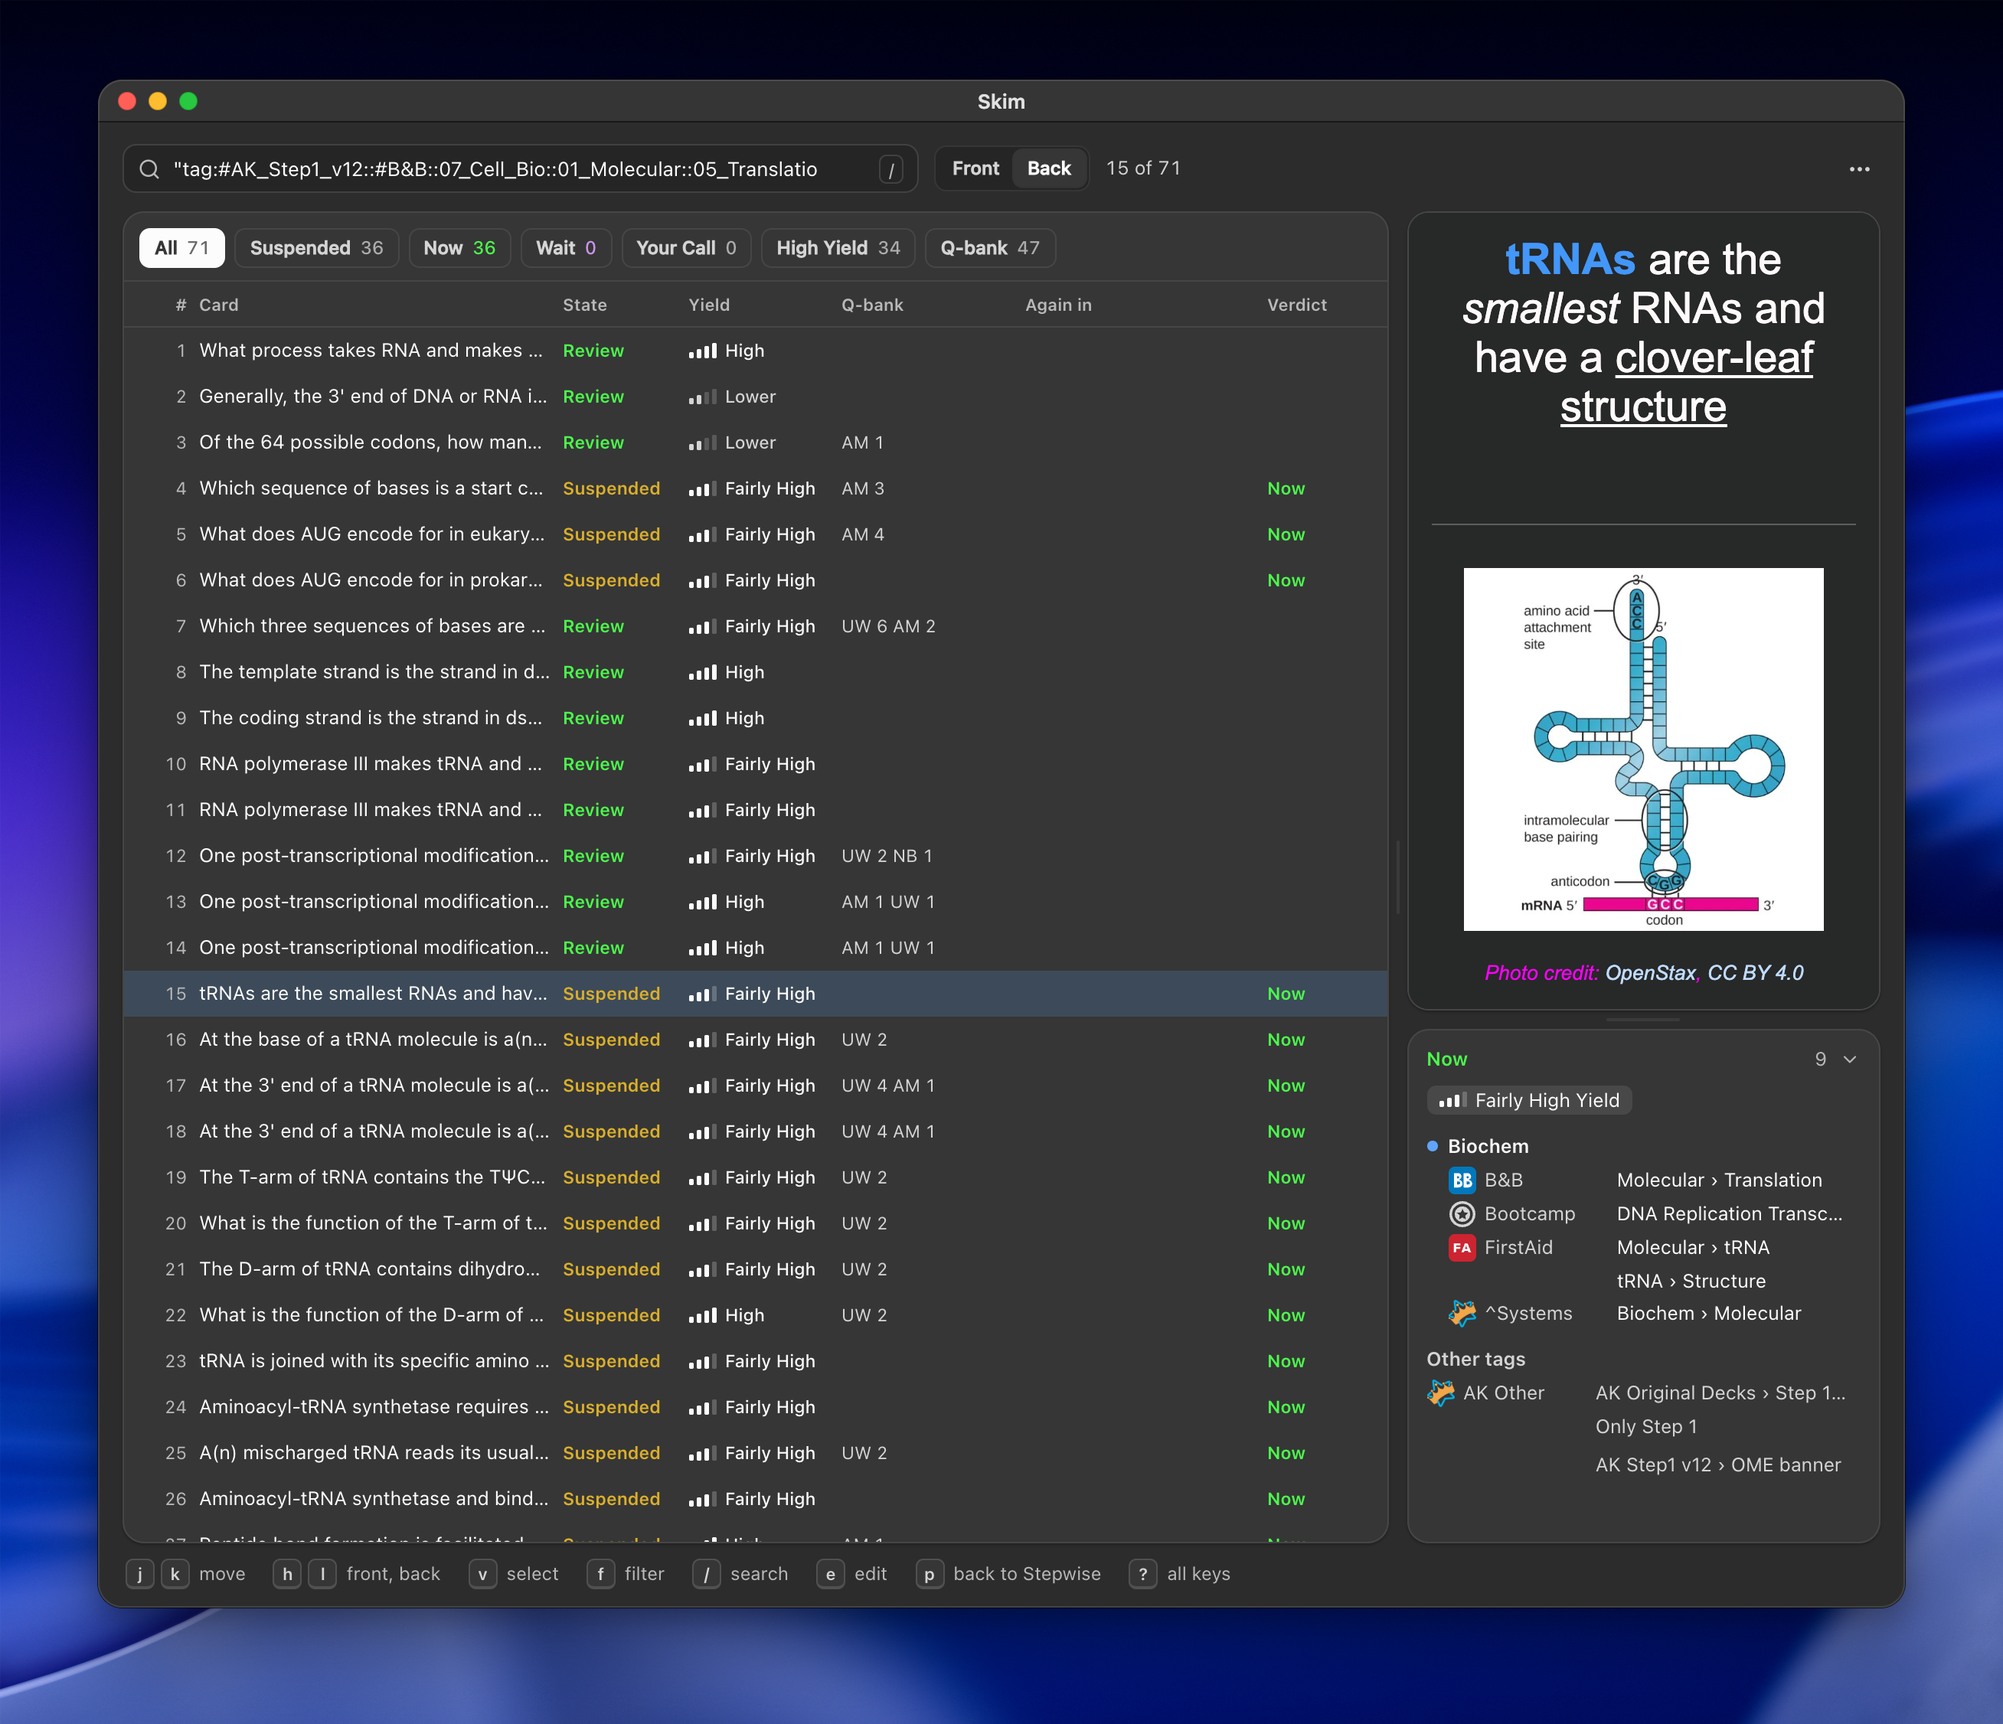
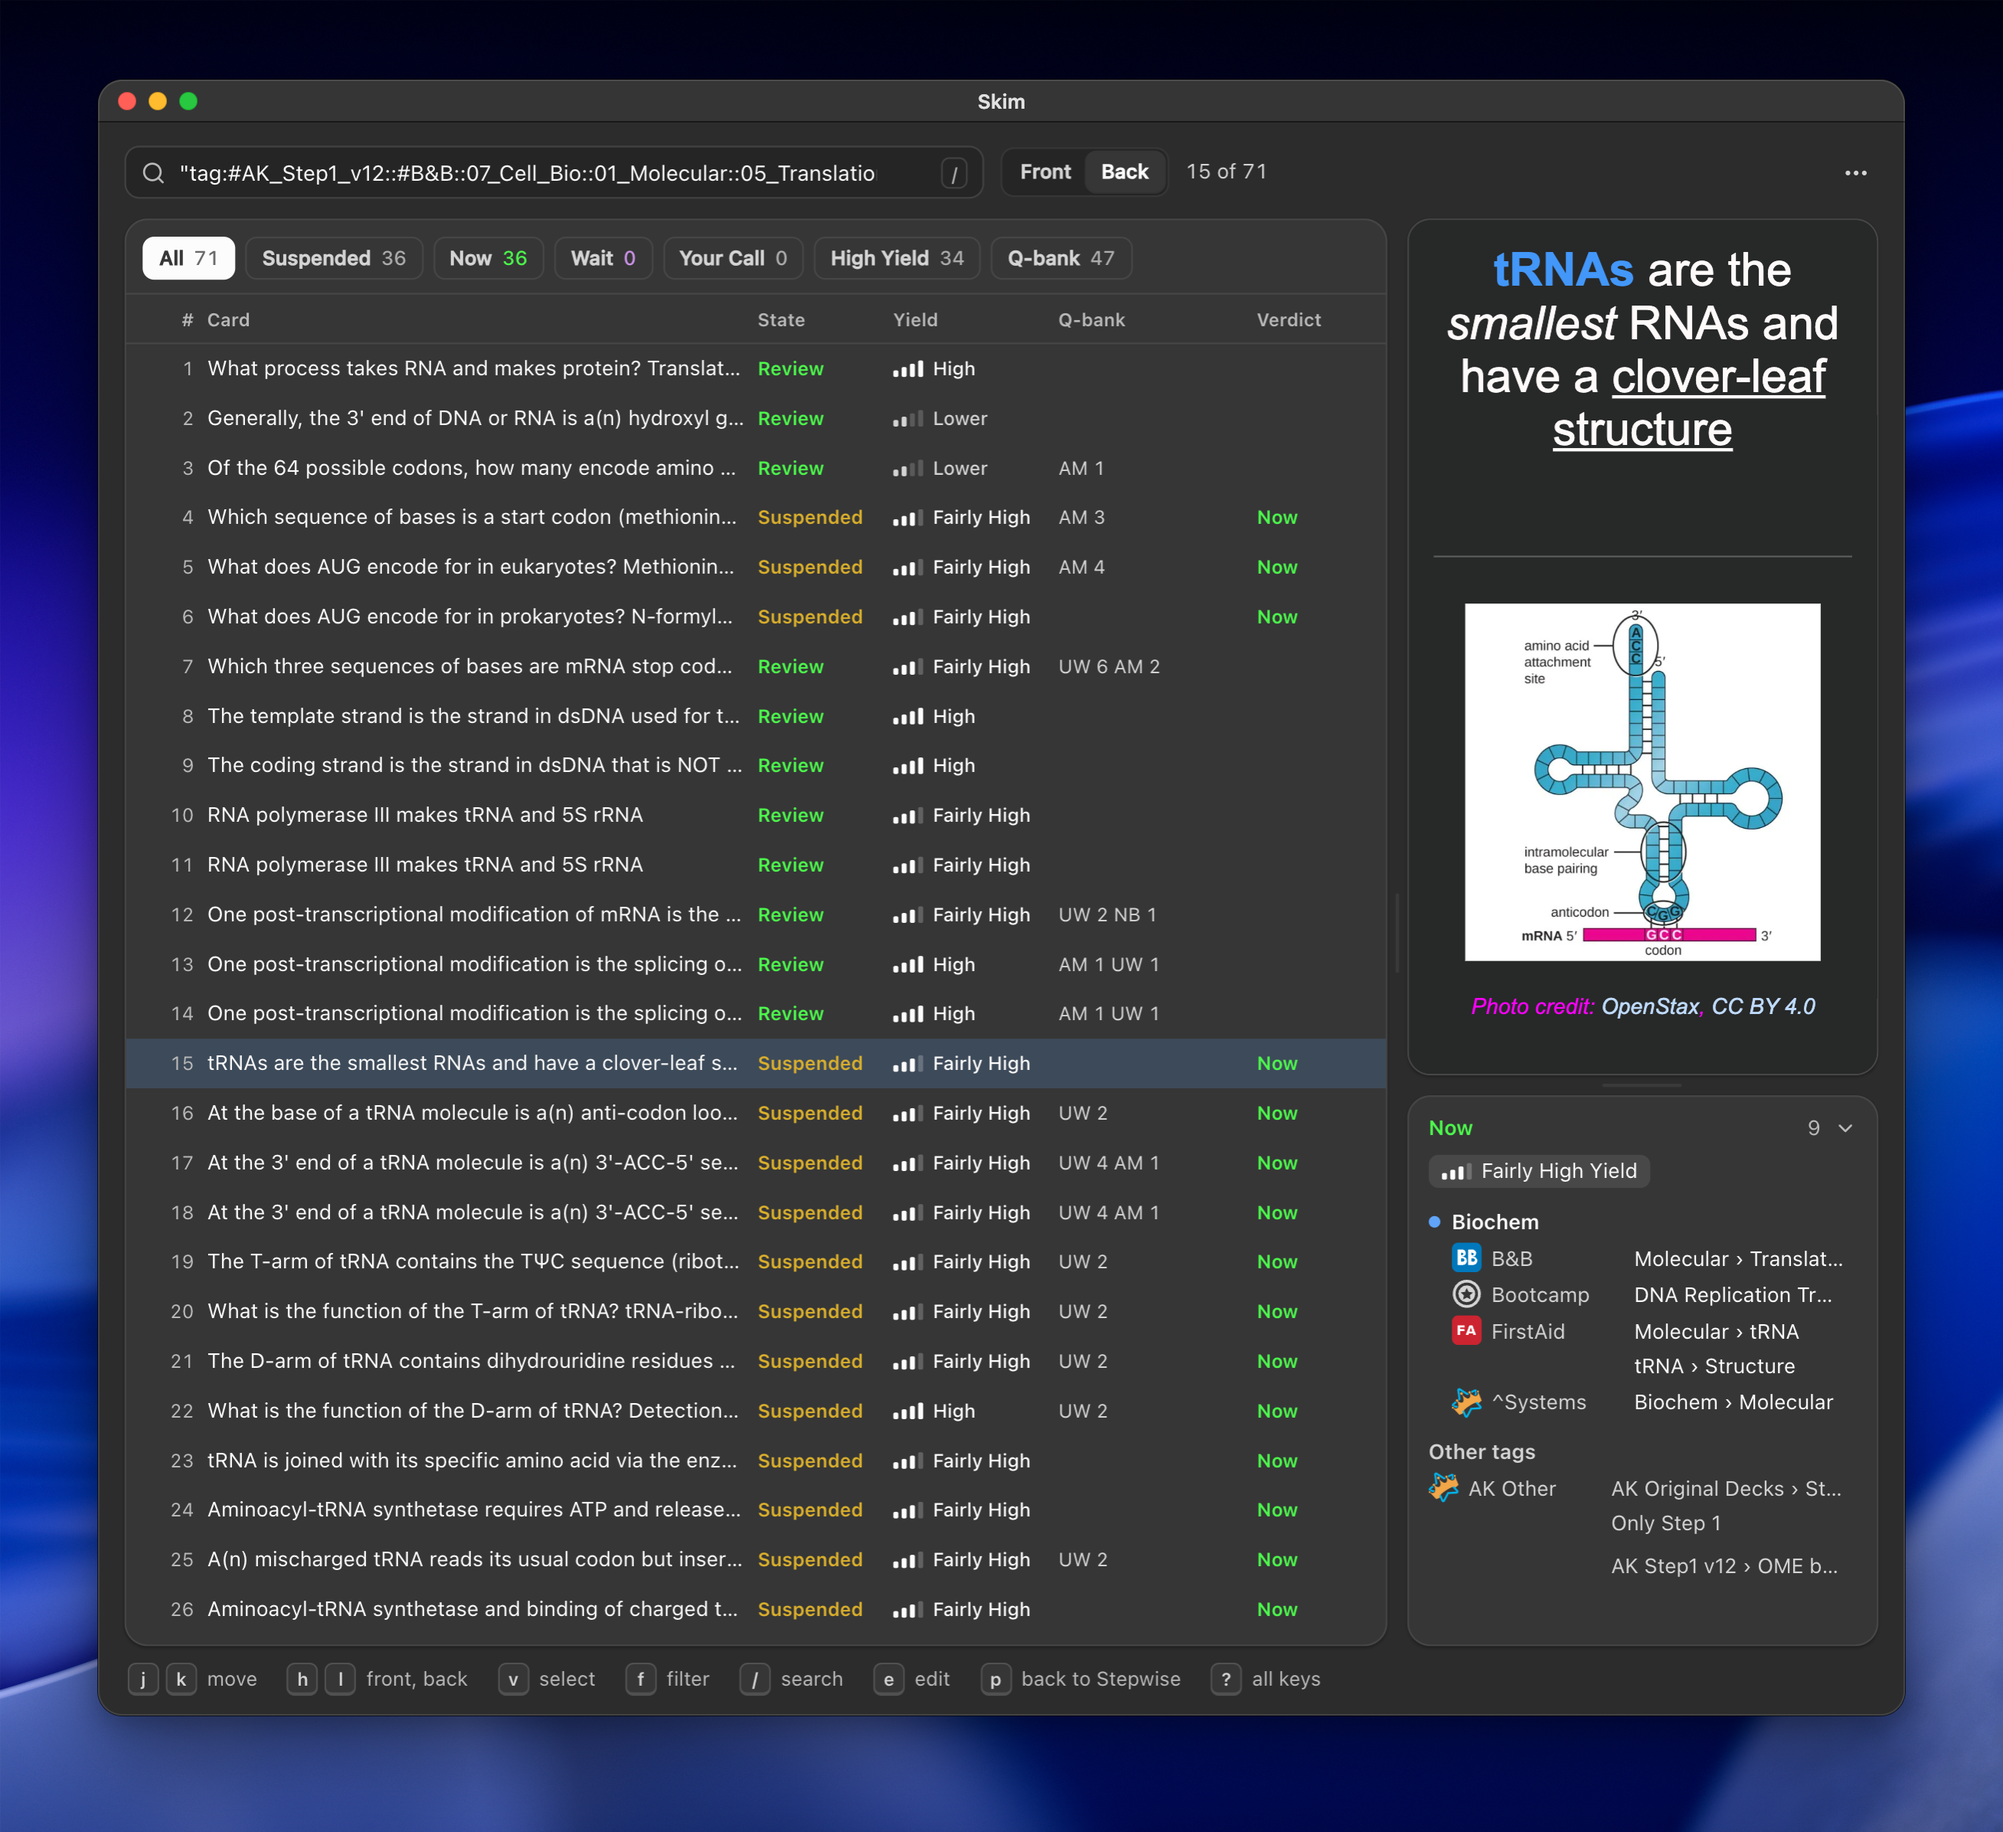
docs: draw the screenshot's window at 108%
The window draws at 108% (the kit's capture "zoom", as ⌘= does) in
1180x1040, so it reads better at the listing's width while the page
stays 1093px wide: under 1080px Skim hides the card. The table drops its
Deck and Again in columns at that width, as it's made to. The window is
taller so the diagram and its credit still show whole.

diff --git a/tools/screenshots.py b/tools/screenshots.py
@@ -9,7 +9,7 @@ unsuspend now (CARD, found by its text): "tRNAs are the smallest RNAs and
 have a clover-leaf structure", a real AnKing card (note 1467927195193, so
 anyone's copy of the deck has it) whose diagram is OpenStax's, CC BY 4.0,
 credited on the card. The window is taller than its default 1180x780, so
-the diagram and its credit show whole. The page comes from tools/devserver.py, run with Anki's own Python
+the diagram and its credit show whole, and draws at 108% (ZOOM). The page comes from tools/devserver.py, run with Anki's own Python
 (ANKI_PYTHON, or the launcher's) on a copy of a collection: the Default
 profile's unless --collection names another, with the media folder beside
 it. The collection itself is never touched. Verdicts follow Stepwise's
@@ -35,7 +35,12 @@ KIT = os.environ.get("ANKI_ADDON_KIT", os.path.join(os.path.dirname(ROOT), "anki
 sys.path.insert(0, os.path.join(KIT, "screenshots"))
 import shots  # noqa: E402
 
-SIZE = (1180, 970)  # the default width (src/window.py), taller so the card's diagram and its credit show whole
+# How big it draws in its window (the kit's zoom.py, Cmd+=), so it reads at
+# the listing's width. The page is then 1180 / 1.08 = 1093px wide: any
+# narrower (under 1080px, styles.css) and Skim hides the card to give the
+# table the window.
+ZOOM = 1.08
+SIZE = (1180, 1040)  # the default width (src/window.py), taller so the card's diagram and its credit show whole
 TOPIC = "#AK_Step1_v12::#B&B::07_Cell_Bio::01_Molecular::05_Translation"
 CARD = "tRNAs are the smallest RNAs"  # its row's text
 STEPWISE = os.path.join(os.path.dirname(ROOT), "anki-stepwise", "src", "meta.json")
@@ -77,7 +82,7 @@ def main() -> None:
         try:
             shots.wait_for(f"http://127.0.0.1:{port}/", timeout=90)
             s.capture([{"url": f"http://127.0.0.1:{port}/?theme=dark", "width": SIZE[0], "height": SIZE[1],
-                        "setup": SETUP % {"card": json.dumps(CARD)}, "wait": 300, "out": "skim.png",
+                        "setup": SETUP % {"card": json.dumps(CARD)}, "zoom": ZOOM, "wait": 300, "out": "skim.png",
                         "result": s.path("skim.json")}])
         finally:
             dev.terminate()

diff --git a/docs/ankiweb-listing.md b/docs/ankiweb-listing.md
@@ -42,8 +42,10 @@ before each release.
 shared screenshot tools: Skim's window on the B&B Translation topic from the
 Default profile's collection (a copy), with Stepwise's pinned resources, at
 the tRNA card (a clover-leaf diagram, OpenStax, CC BY 4.0, credited on the
-card), which it says to unsuspend now. The window is 1180x970, taller than
-its default, so the diagram and its credit show whole. Chosen on 2026-11-17
+card), which it says to unsuspend now. The window is 1180x1040, taller than
+its default, so the diagram and its credit show whole, and it draws at 108%
+(as Cmd+= draws it), so it reads at the listing's width. Any bigger and the
+page would be under 1080px wide, where Skim hides the card. Chosen on 2026-11-17
 from the B&B cards with openly licensed images: most cards' large text
 pushes their picture out of the card pane, and many topics have no
 suspended cards left to show verdicts. Rerun it after the window changes.
